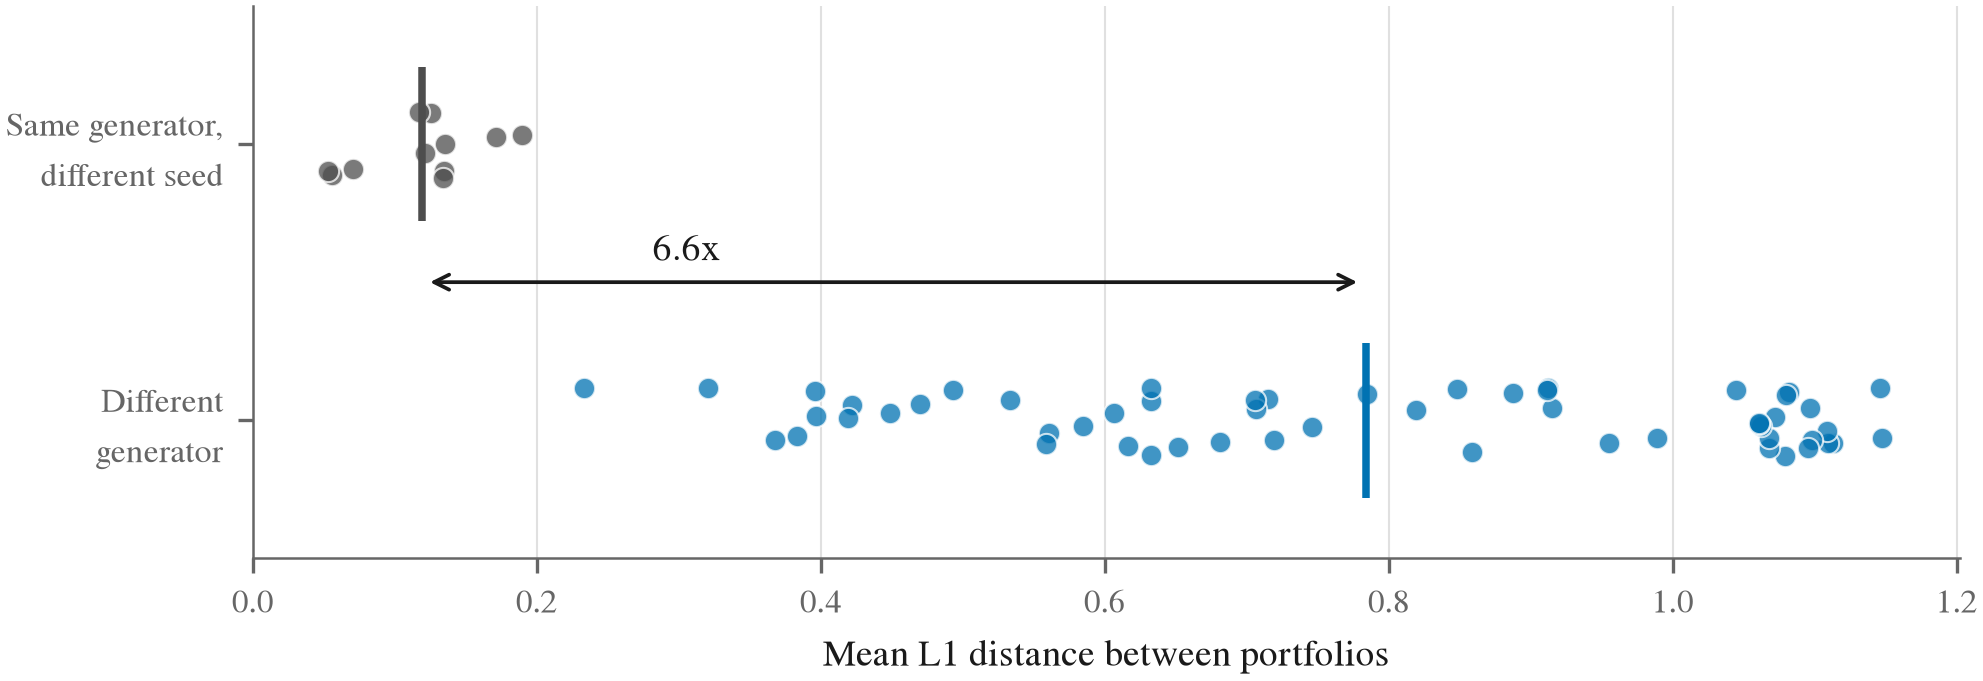
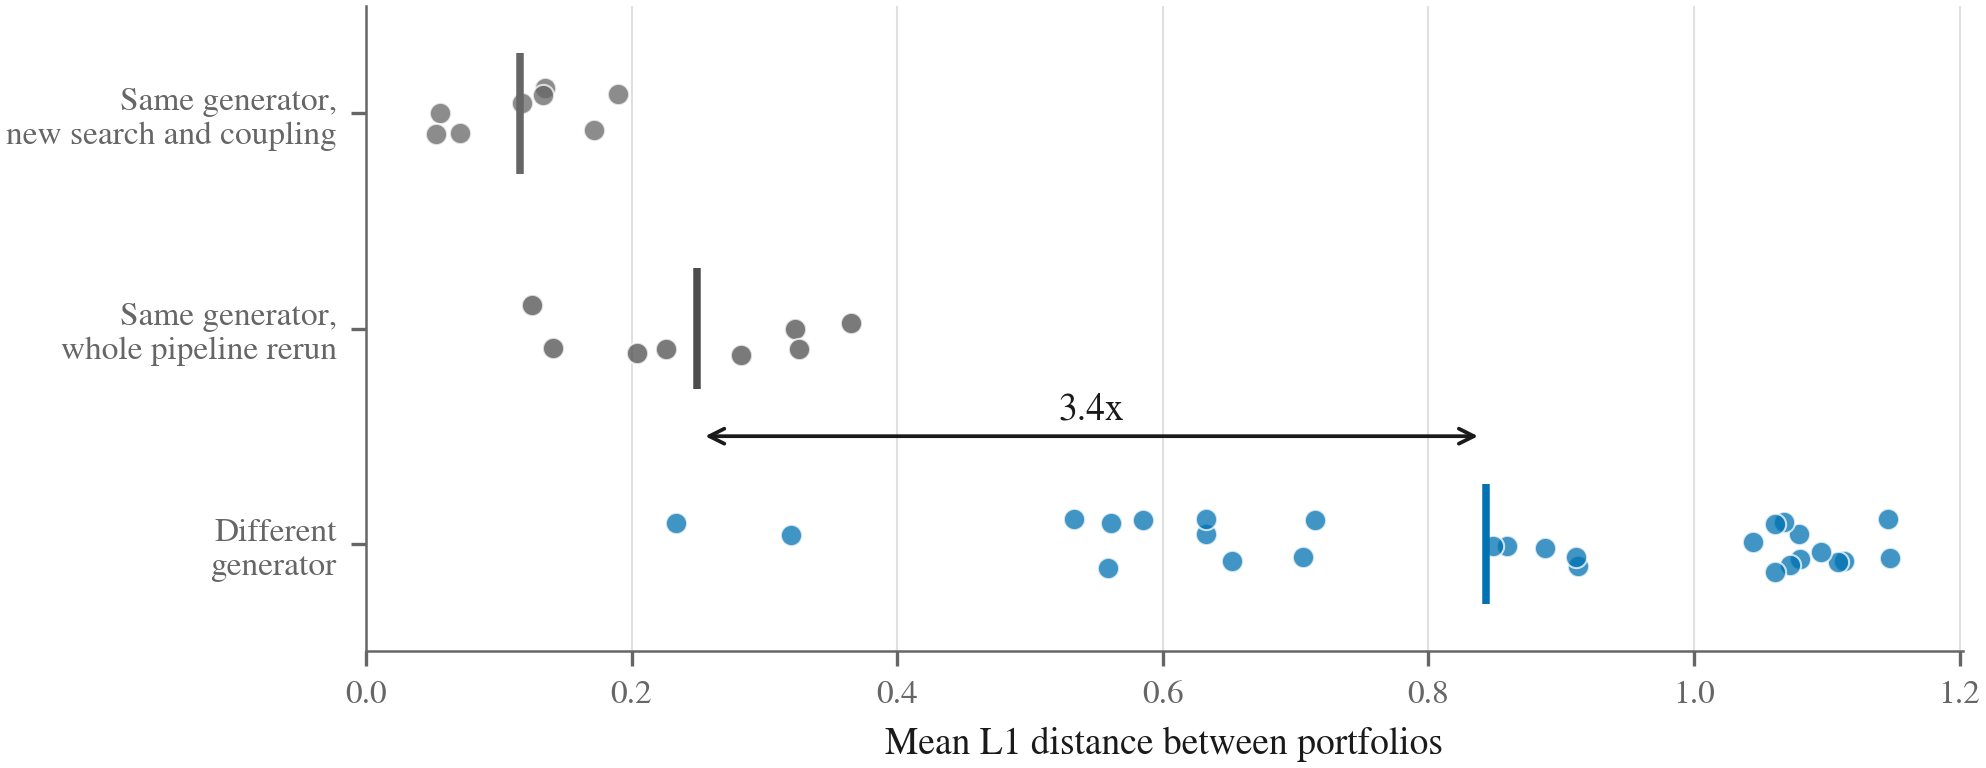
Displacement figure with both floors, over the generators replicated in full

diff --git a/scenport/plots/paper.py b/scenport/plots/paper.py
@@ -40,6 +40,10 @@ def fig_displacement(artifacts: Path):
 
     floors = pd.read_csv(artifacts / "noise_floor.csv")
     between = pd.read_csv(artifacts / "displacement_between.csv")
+    # Only pairs of generators that have a full floor, so the ratio drawn compares
+    # the same generators on both sides.
+    keep = set(floors["forecaster"])
+    between = between[between["forecaster_a"].isin(keep) & between["forecaster_b"].isin(keep)]
 
     floor = float(floors["floor_full_l1"].mean())
     moved = float(between["l1_mean"].mean())
